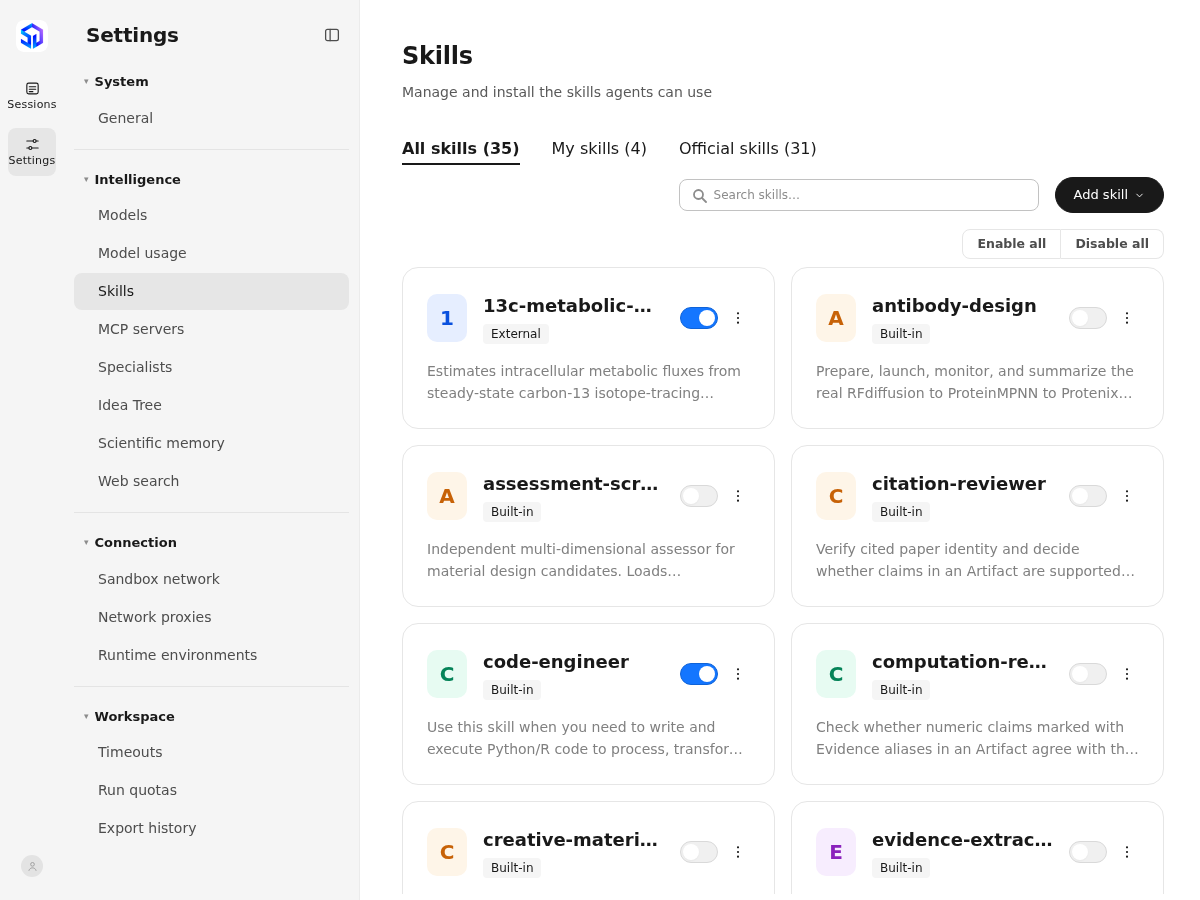
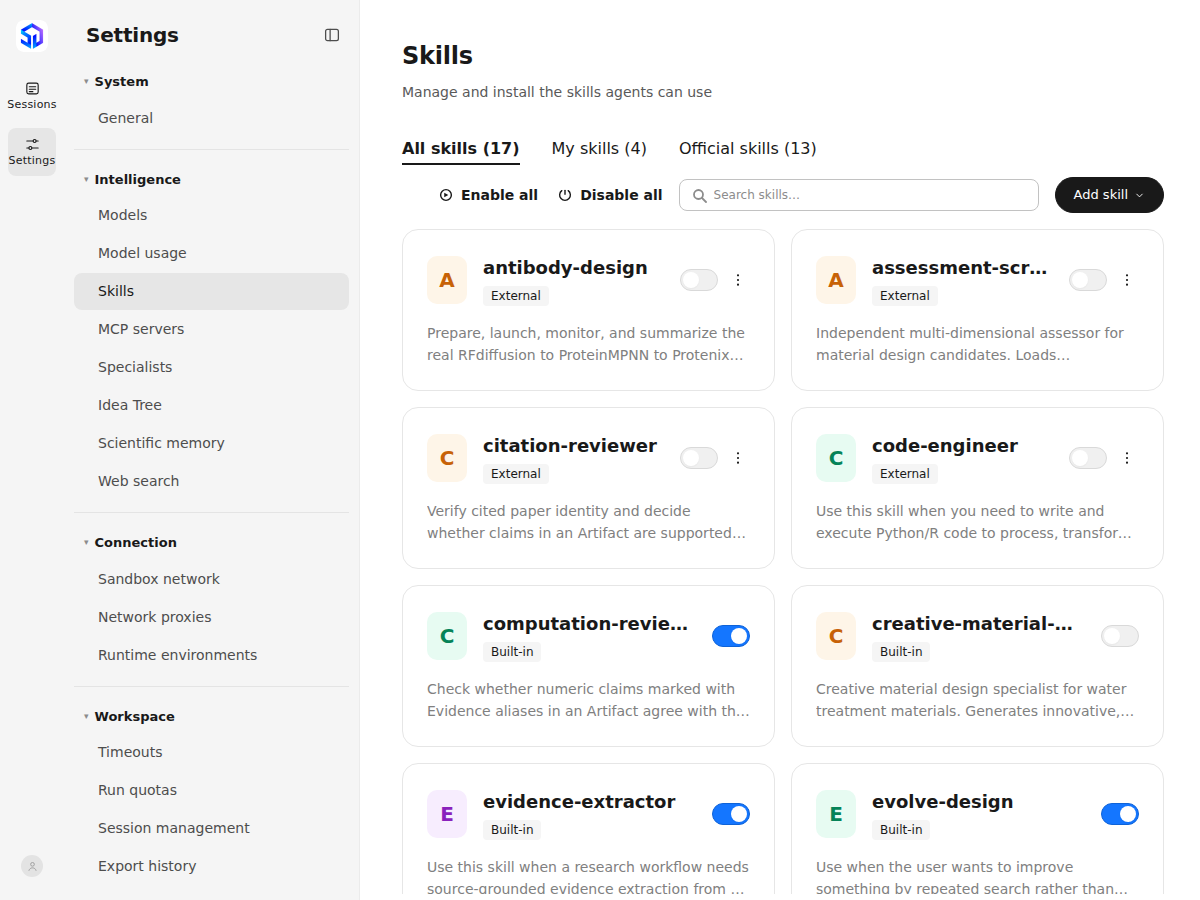
fix(desktop): keep the skills bulk pair on the handoff's toolbar line
The pair moved into the toolbar beside the tabs, but the toolbar wraps and
the search field held a 360px width, so at the default 1440 window the whole
right-hand group dropped below the tabs — the handoff draws tabs, the pair,
the search and 添加技能 on one line.

From 1400px up the row no longer wraps and the group may shrink; the search
takes the loss (360 → ~258px at 1440, ~218px in English) and the pair's labels
stay on one line. Narrower windows keep the wrapped layout, and the group now
gives width up there too instead of pushing 添加技能 past the pane's edge.

The six list frames are re-captured on this head at 1440/1200/1024 in both
languages.

diff --git a/apps/desktop/src/styles/settings.css b/apps/desktop/src/styles/settings.css
@@ -84,6 +84,7 @@
 .settings-bulk.is-toolbar { gap: 20px; margin: 0; }
 .settings-bulk.is-toolbar .bulk-button {
   display: inline-flex;
+  flex: none;
   align-items: center;
   gap: 8px;
   height: 32px;
@@ -93,6 +94,9 @@
   background: none;
   color: #191919;
   font-size: 14px;
+  /* The pair shares one line with the tabs and the search: a label that wrapped
+     inside its own button would make the two writes read as one column of text. */
+  white-space: nowrap;
 }
 .settings-bulk.is-toolbar .bulk-button:hover:not(:disabled) { background: none; color: #000; }
 .settings-bulk.is-toolbar .bulk-button:active:not(:disabled) { background: none; }
@@ -757,6 +761,15 @@ a.secondary-button {
   gap: 12px 24px;
   margin: 0 0 16px;
 }
+/* The handoff draws tabs, the bulk pair, the search and 添加技能 on one line.
+   From the default window up, the row keeps that line by letting the search
+   give up width instead of the whole right-hand group dropping below the tabs;
+   narrower windows wrap, where one line cannot hold them at a usable search. */
+@media (min-width: 1400px) {
+  .skill-toolbar { flex-wrap: nowrap; }
+  .skill-toolbar-end { flex: 1 1 auto; justify-content: flex-end; }
+  .skill-toolbar .skill-search-field { min-width: 150px; }
+}
 .skill-tabs { display: flex; align-items: flex-end; gap: 32px; }
 .skill-tab {
   position: relative;
@@ -785,6 +798,10 @@ a.secondary-button {
   align-items: center;
   gap: 16px;
   margin-left: auto;
+  /* The group is allowed to give up width to the search: without this its
+     automatic minimum keeps the row at its content width and pushes
+     添加技能 past the pane's right edge on a narrow window. */
+  min-width: 0;
 }
 .skill-search-field {
   position: relative;
